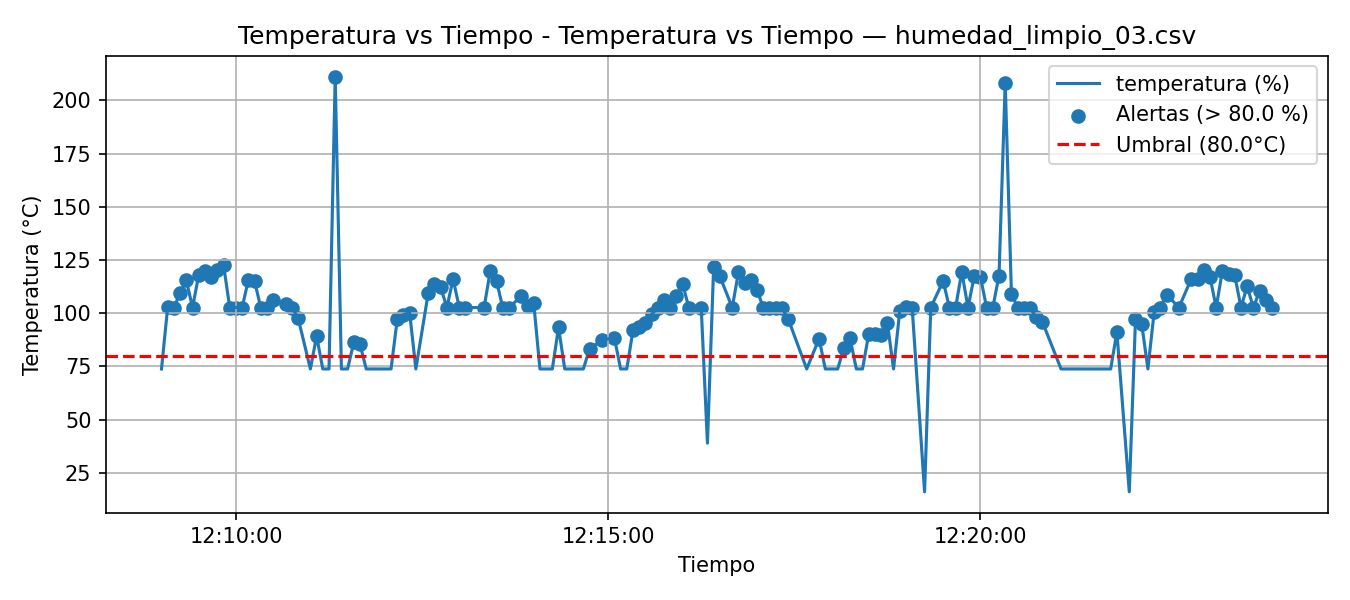
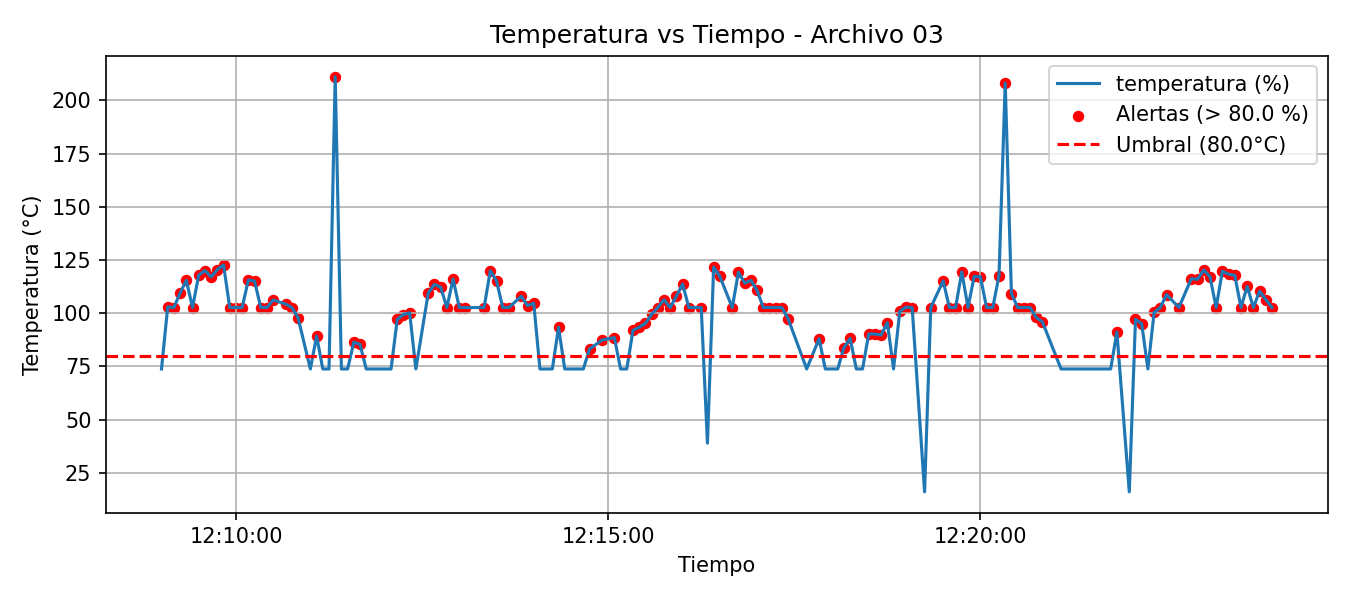
Arreglos

diff --git a/Lab 2 intento/src/plotting.py b/Lab 2 intento/src/plotting.py
@@ -7,10 +7,11 @@ def plot_voltage_line(ts, volts, umbral_v: float, title: str, out_path: Path):
     plt.plot(ts, volts, label="temperatura (%)")
     alerts_t = [t for t, v in zip(ts, volts) if v > umbral_v]
     alerts_v = [v for v in volts if v > umbral_v]
-    plt.scatter(alerts_t, alerts_v, label=f"Alertas (> {umbral_v} %)")
+    plt.scatter(alerts_t, alerts_v, color='red', s=20, label=f"Alertas (> {umbral_v} %)")
     plt.axhline(umbral_v, color='r', linestyle='--', label=f'Umbral ({umbral_v}°C)')
     plt.gca().xaxis.set_major_formatter(mdates.DateFormatter("%H:%M:%S"))
-    plt.title(f"Temperatura vs Tiempo - {title}"); plt.xlabel("Tiempo"); plt.ylabel("Temperatura (°C)")
+    file_number = Path(title).stem[-2:]
+    plt.title(f"Temperatura vs Tiempo - Archivo {file_number}"); plt.xlabel("Tiempo"); plt.ylabel("Temperatura (°C)")
     plt.grid(True); plt.legend(); plt.tight_layout()
     out_path.parent.mkdir(parents=True, exist_ok=True)
     plt.savefig(out_path, dpi=150); plt.show()
@@ -18,7 +19,8 @@ def plot_voltage_line(ts, volts, umbral_v: float, title: str, out_path: Path):
 def plot_voltage_hist(volts, title: str, out_path: Path, bins: int = 20):
     plt.figure(figsize=(6,4))
     plt.hist(volts, bins=bins)
-    plt.title(f"Histograma de Temperatura - {title}"); plt.xlabel("Temperatura (°C)"); plt.ylabel("Frecuencia")
+    file_number = Path(title).stem[-2:]
+    plt.title(f"Histograma de Temperatura - Archivo {file_number}"); plt.xlabel("Temperatura (°C)"); plt.ylabel("Frecuencia")
     plt.grid(True); plt.tight_layout()
     out_path.parent.mkdir(parents=True, exist_ok=True)
     plt.savefig(out_path, dpi=150); plt.show()
@@ -28,15 +30,25 @@ def plot_boxplot_by_sensor(sensor_to_volts: dict[str, list[float]], out_path: Pa
     data = [sensor_to_volts[k] for k in labels if sensor_to_volts[k]]
     if not data:
         raise RuntimeError("No hay datos para boxplot.")
-    horizontal = len(labels) > 10
-    plt.figure(figsize=(max(8, len(labels)*0.8) if not horizontal else 8,
-                        5 if not horizontal else max(6, len(labels)*0.6)))
+    
+    etiquetas = []
+    for nombre in labels:
+        # Buscar los últimos 2 dígitos del nombre (por ejemplo, "01", "02", etc.)
+        if any(char.isdigit() for char in nombre):
+            num = ''.join(filter(str.isdigit, nombre))[-2:]  # últimos 2 dígitos
+            etiquetas.append(f"Archivo {num}")
+        else:
+            etiquetas.append(nombre)
+
+    horizontal = len(etiquetas) > 10
+    plt.figure(figsize=(max(8, len(etiquetas)*0.8) if not horizontal else 8,
+                        5 if not horizontal else max(6, len(etiquetas)*0.6)))
     plt.boxplot(data, vert=not horizontal, showmeans=True)
     if horizontal:
-        plt.yticks(range(1, len(labels)+1), labels)
+        plt.yticks(range(1, len(etiquetas)+1), etiquetas)
         plt.xlabel("Voltaje (V)"); plt.ylabel("Sensor")
     else:
-        plt.xticks(range(1, len(labels)+1), labels, rotation=60)
+        plt.xticks(range(1, len(etiquetas)+1), etiquetas, rotation=60)
         plt.ylabel("Voltaje (V)"); plt.xlabel("Sensor")
     plt.title("Boxplot de Temperatura por Sensor")
     plt.grid(True, axis="y" if not horizontal else "x")

diff --git a/Lab 2 intento/src/cleaning.py b/Lab 2 intento/src/cleaning.py
@@ -38,7 +38,7 @@ def clean_file(in_path: Path, out_path: Path, ts_col="timestamp", v_col_candidat
     Devuelve: (ts_list, volts_list, stats_dict)
     """
     delim = detectar_delimitador(in_path)
-    ts_list, volts_list, temps = [], [], []
+    ts_list, volts_list, temps, temp_K = [], [], [], []
     total = kept = bad_ts = bad_val = 0
 
     with in_path.open("r", encoding="utf-8", newline="") as fin, \
@@ -63,7 +63,9 @@ def clean_file(in_path: Path, out_path: Path, ts_col="timestamp", v_col_candidat
             if v is None:
                 bad_val += 1; continue
 
-            temp = -30 + (120 - (-30)) * (v - 0.4) / (5.6 - 0.4)    #falta configurar
+            temp_K = 243.15 + (393.15 - 243.15) * (v - 0.4) / (5.6 - 0.4)    #falta configurar
+            temp = temp_K - 273.15            
+
             writer.writerow({
                 "timestamp": t.strftime("%Y-%m-%dT%H:%M:%S"),
                 "voltage_V": f"{v:.3f}",
